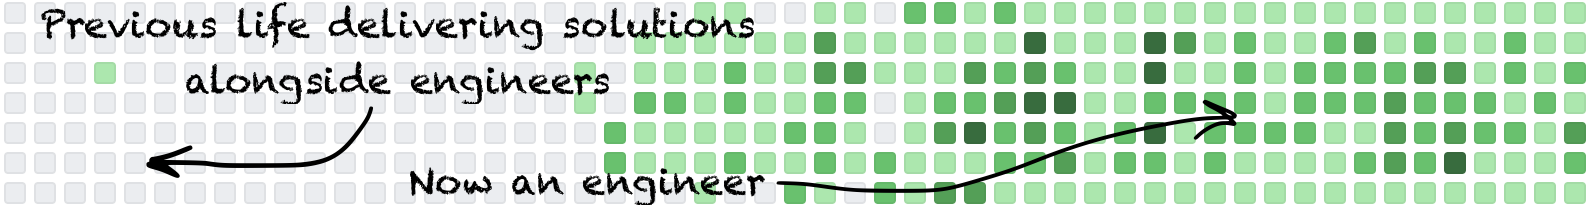
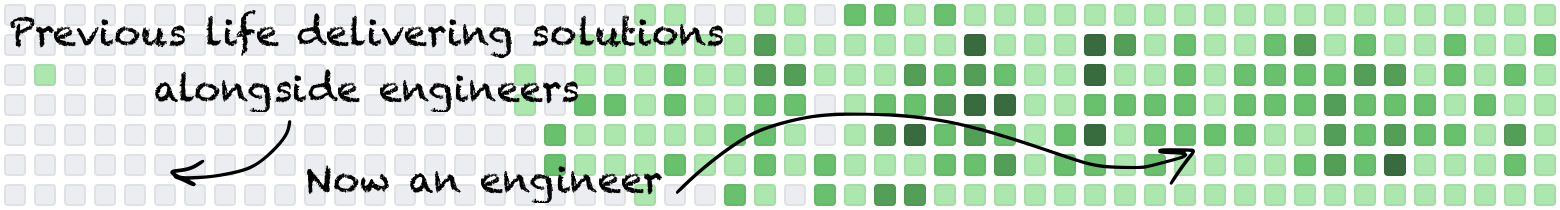
Update green garden and unsplash stat

diff --git a/index.html b/index.html
@@ -415,7 +415,7 @@
             <h3><i class="bi-stars me-2"></i> Experiments</h3>
             <ul>
               <li>
-                <a target='_blank' href='https://unsplash.com/@taisiat' class='text-white shipping-more' onclick="trackButtonClick('more than code - unsplash')">Unsplash photo contributions (308K+ views and 2.3K+ uses!)</a>
+                <a target='_blank' href='https://unsplash.com/@taisiat' class='text-white shipping-more' onclick="trackButtonClick('more than code - unsplash')">Unsplash photo contributions (319K+ views and 2.3K+ uses!)</a>
               </li>
               <li>
                 <a target='_blank' href='https://scale.com/blog/scale-hackathon#Super%20Instructions' class='text-white shipping-more' onclick="trackButtonClick('more than code - hackathon')">'Super Instructions' prototype @ Scale AI hackathon</a>
